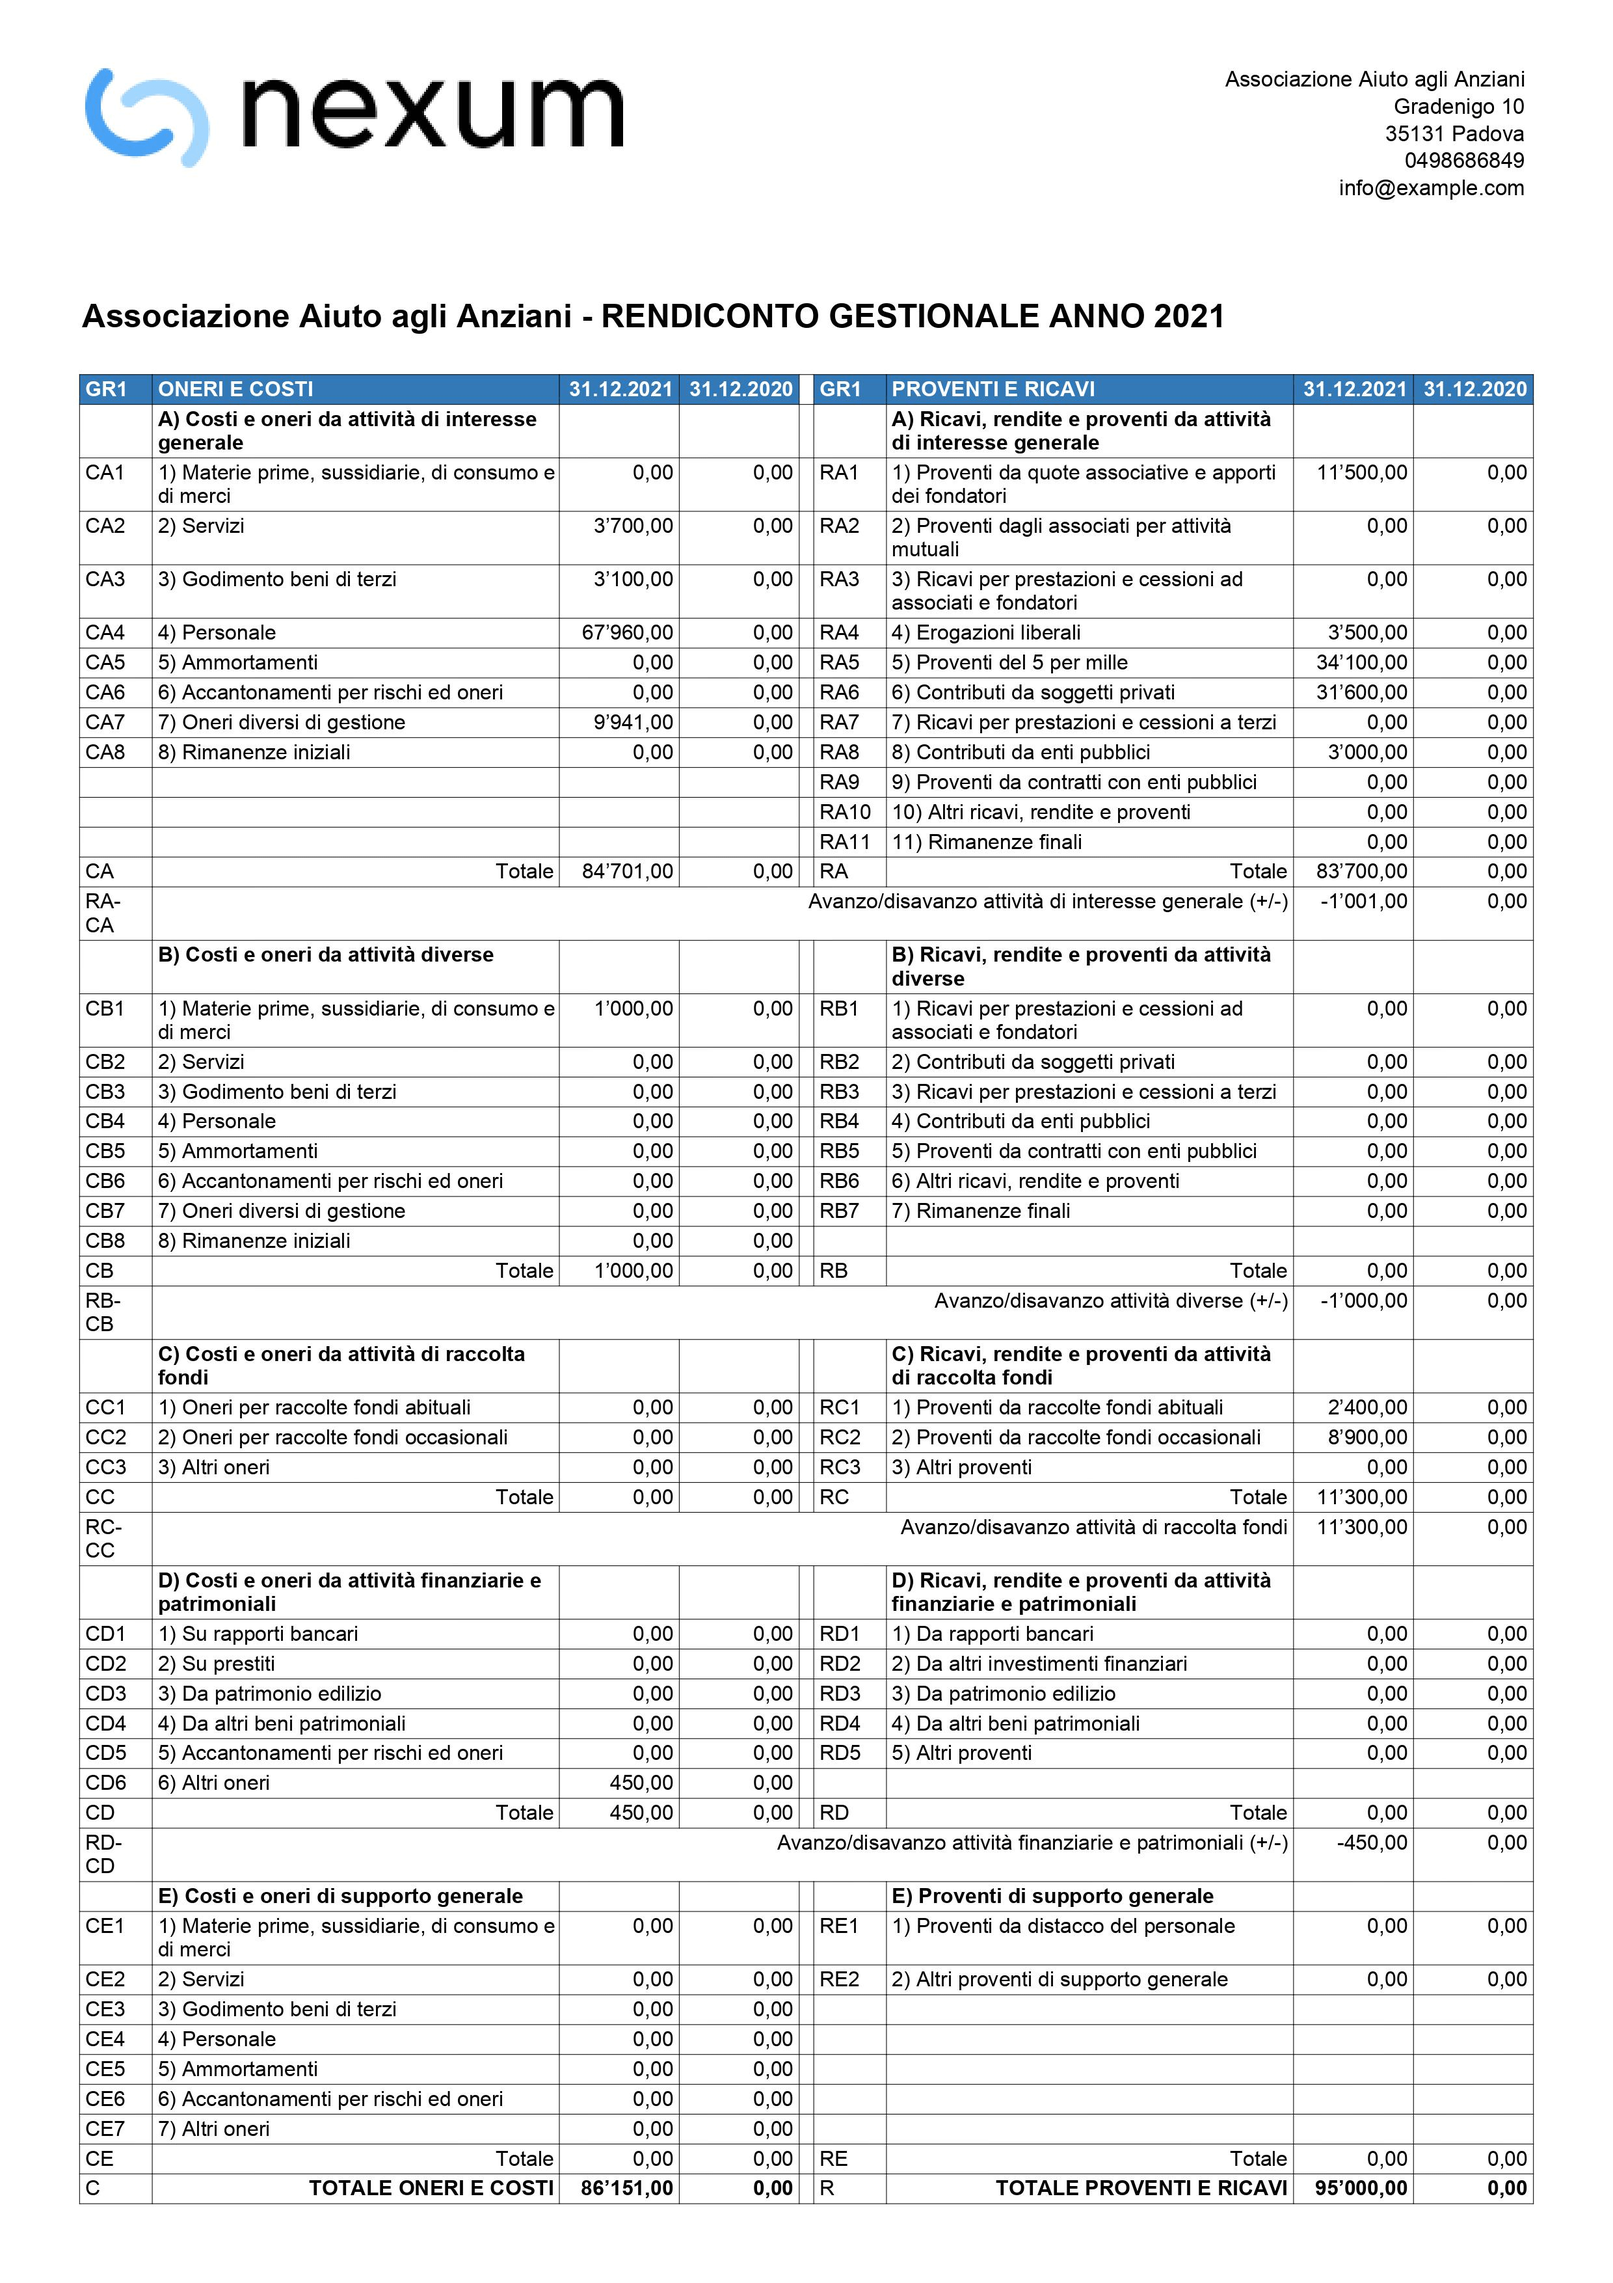
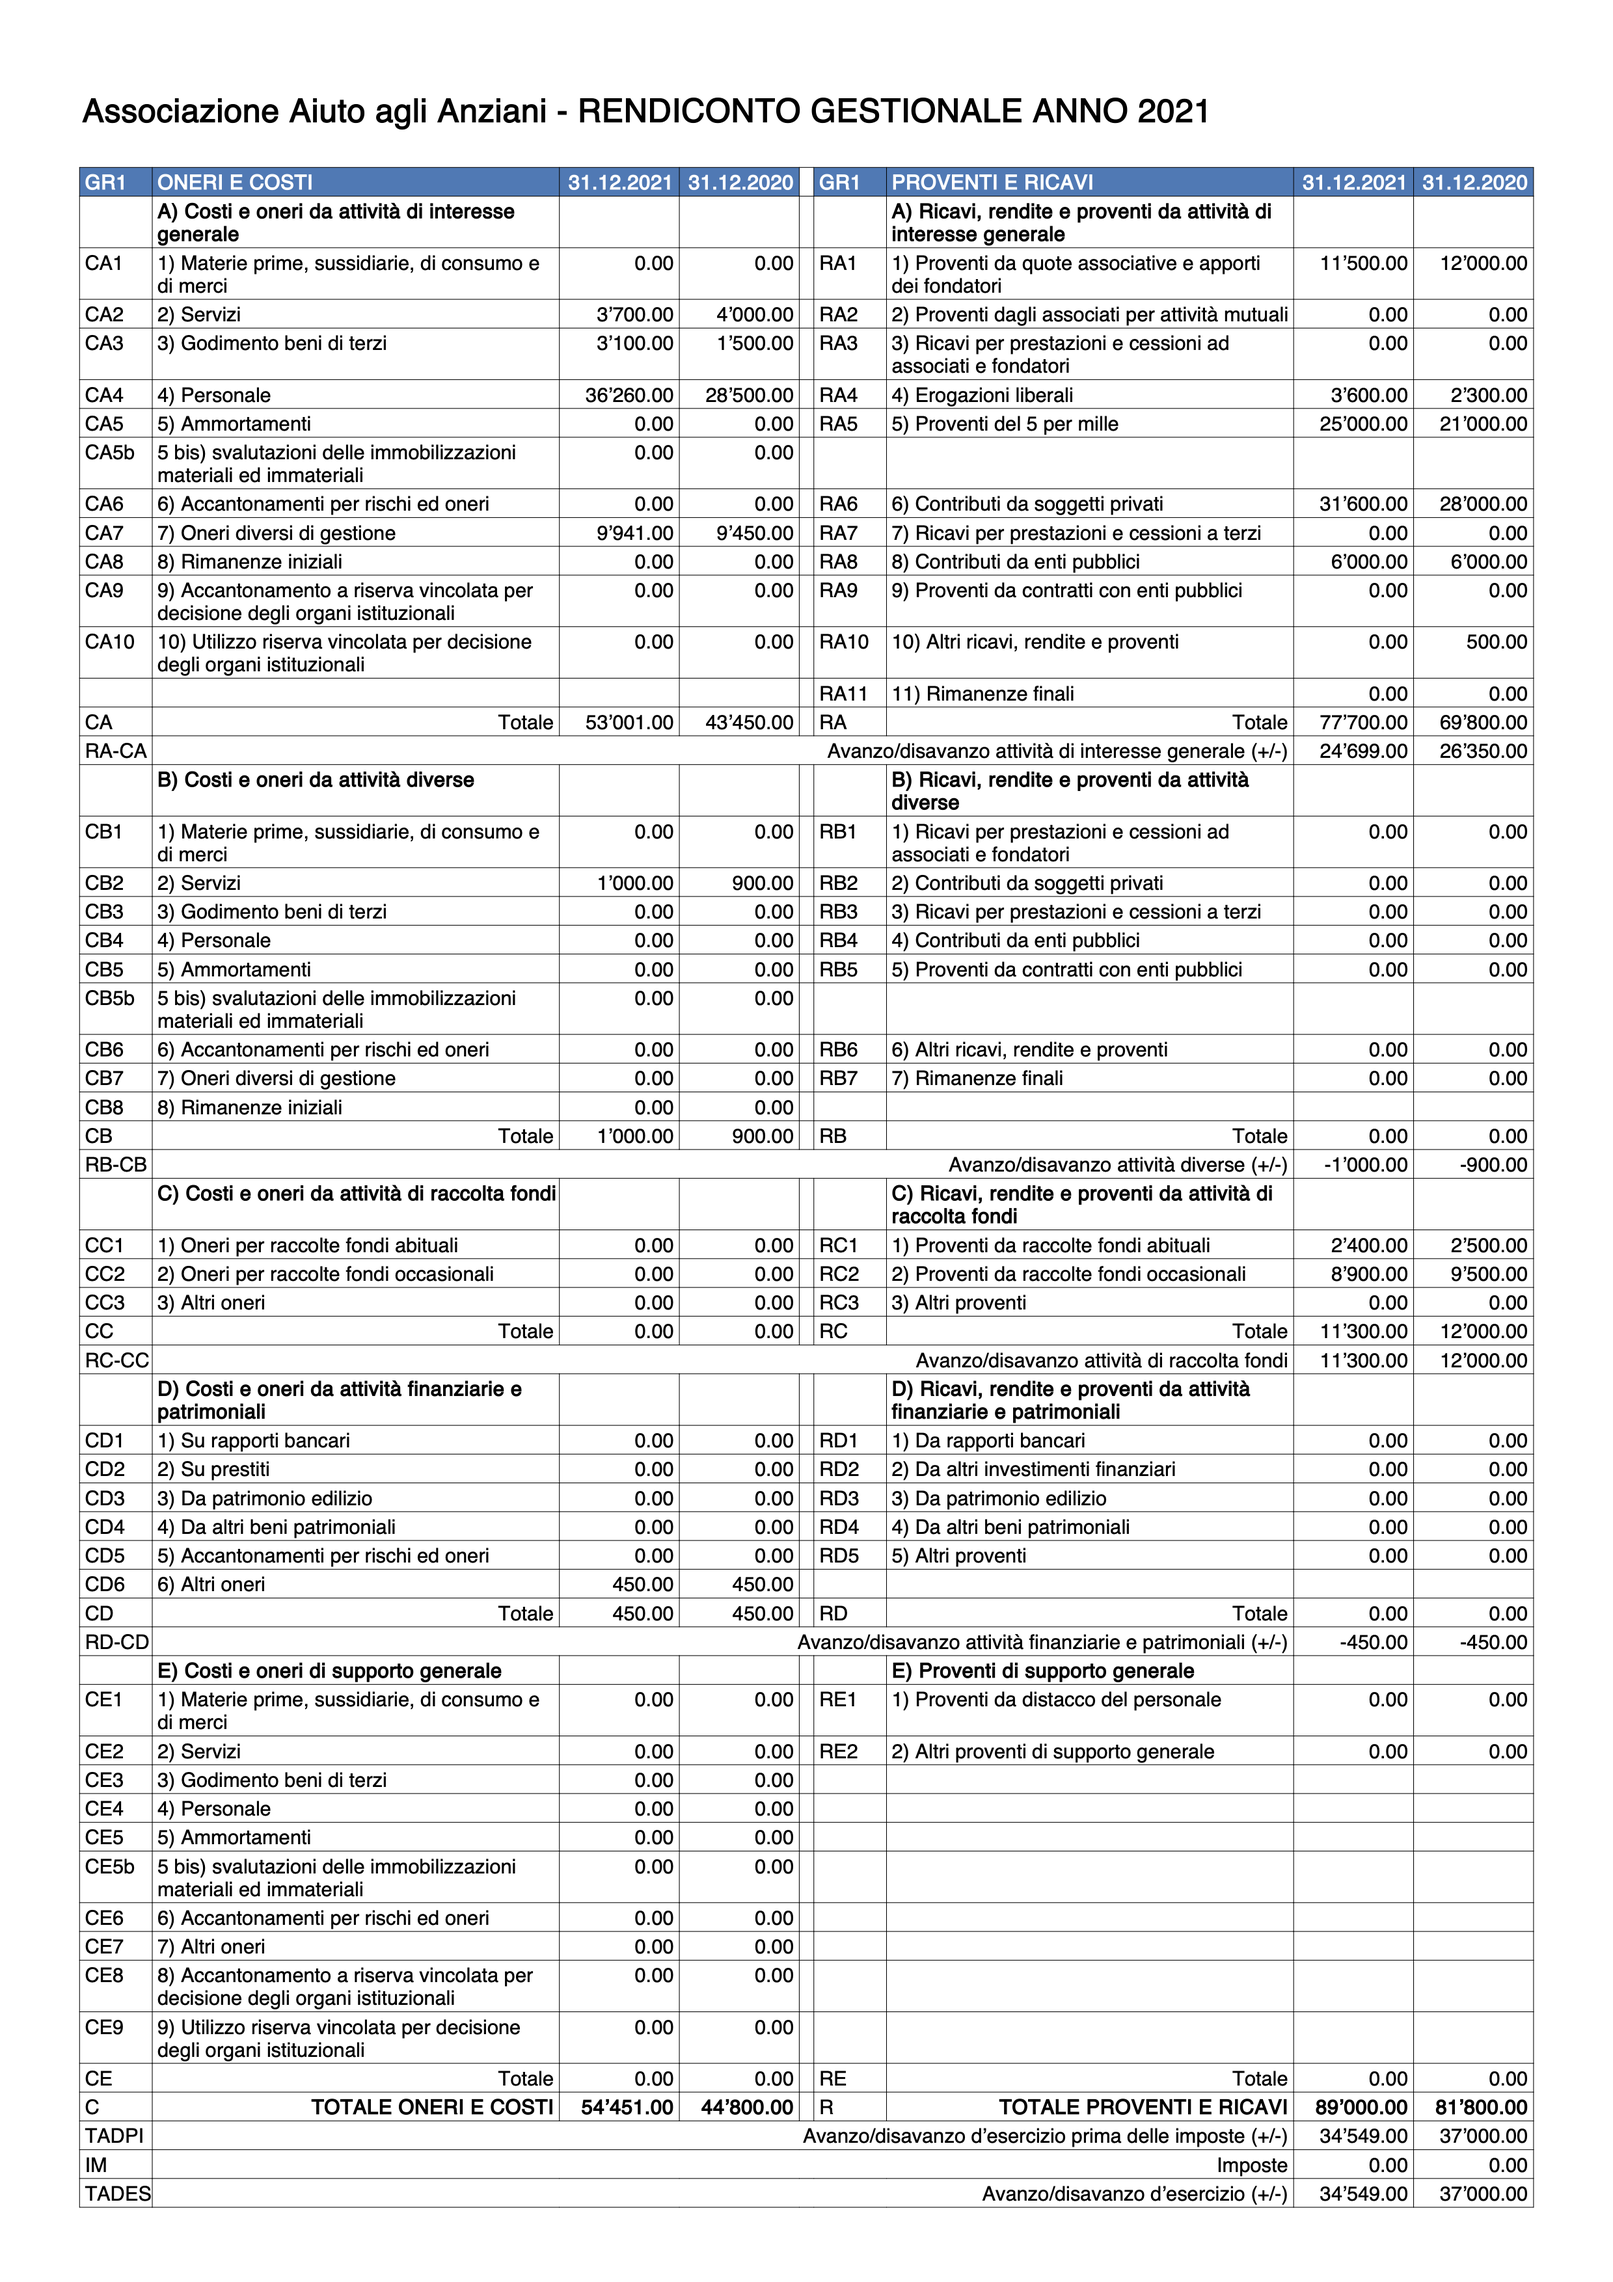
Update images rendiconto gestionale

Changed region(s): [[0.0311, 0.0311, 0.9629, 0.9632]]

diff --git a/ets/rendiconti2020/changelog.md b/ets/rendiconti2020/changelog.md
@@ -1,4 +1,7 @@
 # Cronologia modifiche
+### 2022-08-05
+* Rendiconto gestionale
+  * Aggiunte nuove voci nei gruppi oneri e costi A, B, E (CA5b, CA9, CA10, CB5b, CE5b, CE8, CE9)  
 ### 2022-04-22
 * Rendiconto 5 per mille
   * Aggiunto parametri per personalizzare il gruppo 4.  
